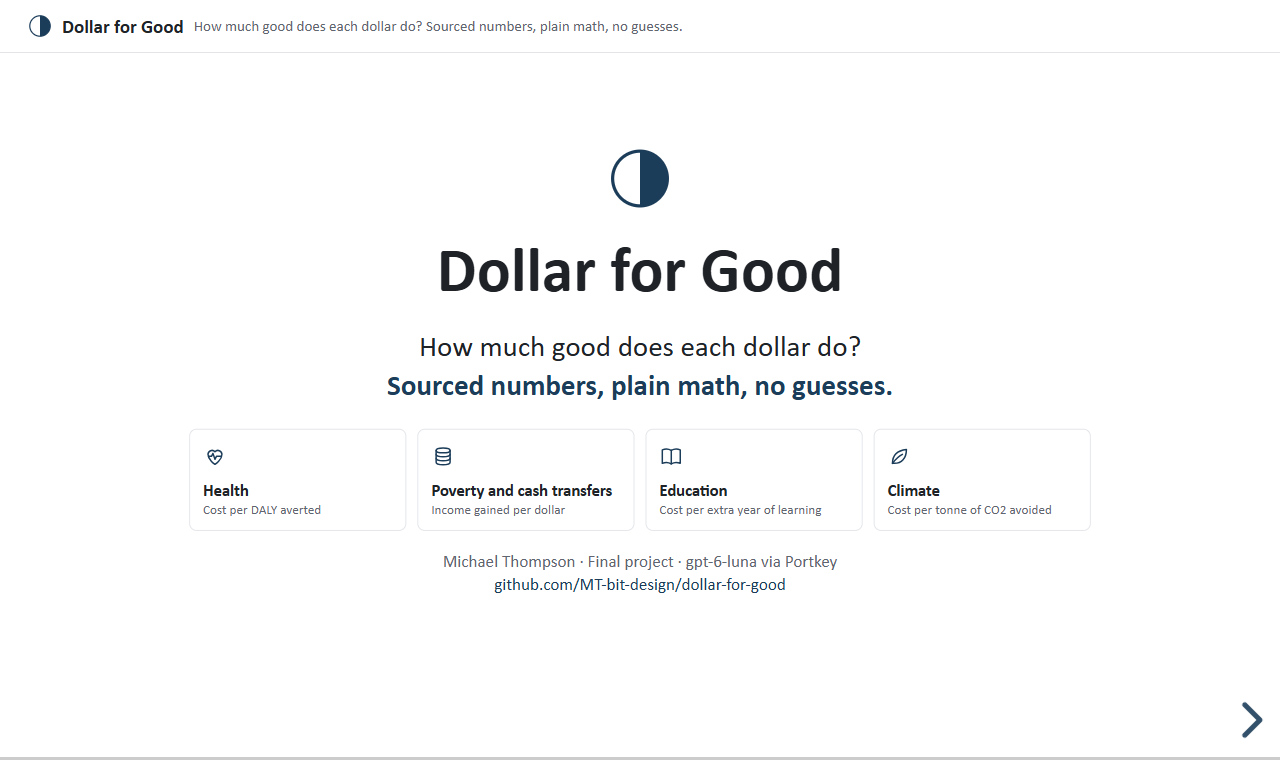
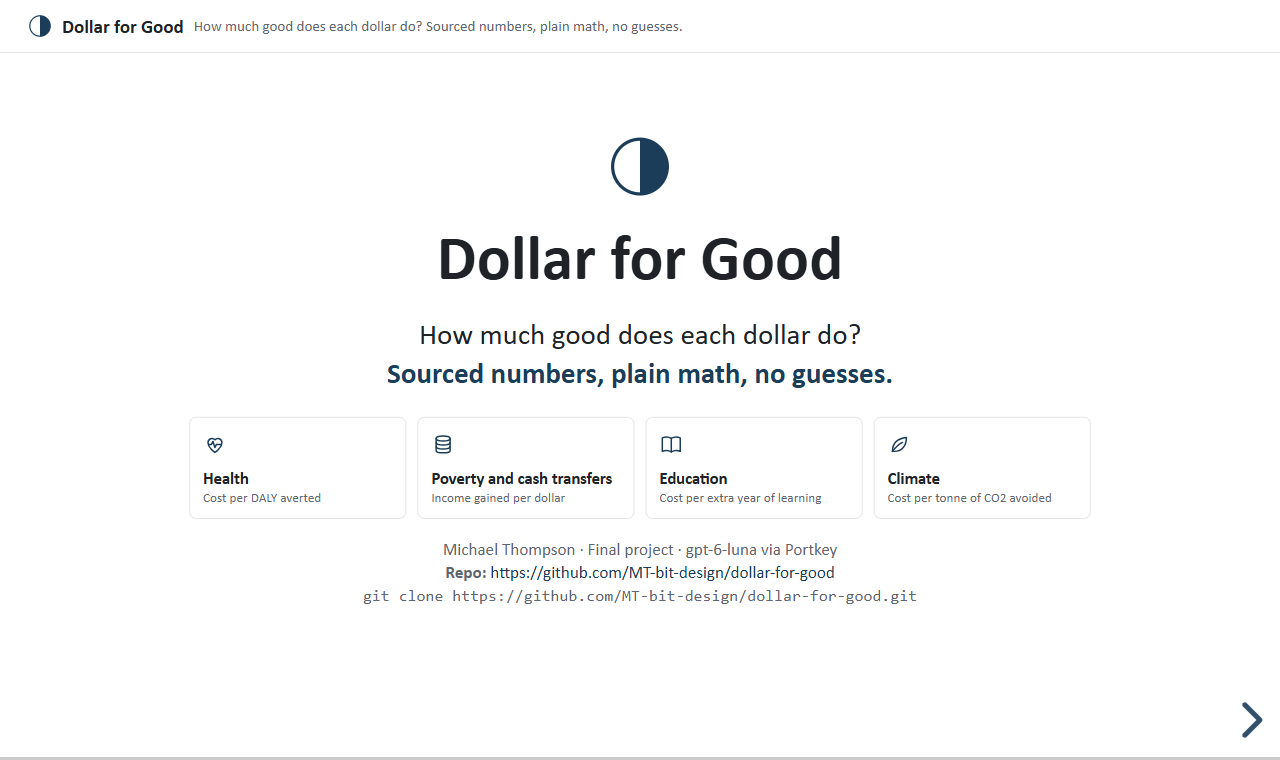
Show the repo URL and a git clone line in the report and on the first and last slides
Canvas takes files only, so graders find the repo from report.html and slides.html.

diff --git a/docs/slides_src.html b/docs/slides_src.html
@@ -65,7 +65,7 @@
   <h1>Dollar for Good</h1>
   <p style="font-size:1.05em">How much good does each dollar do?<br><b class="brand">Sourced numbers, plain math, no guesses.</b></p>
   <div class="causes"><div><svg viewBox="0 0 24 24" fill="none" stroke="currentColor" stroke-width="1.5" stroke-linecap="round" stroke-linejoin="round"><path d="M12 20s-7-4.4-7-10a4 4 0 0 1 7-2.6A4 4 0 0 1 19 10c0 5.6-7 10-7 10z"/><path d="M5.5 12h3l1.5-3 2 6 1.5-3h5"/></svg><b>Health</b><span>Cost per DALY averted</span></div><div><svg viewBox="0 0 24 24" fill="none" stroke="currentColor" stroke-width="1.5" stroke-linecap="round" stroke-linejoin="round"><ellipse cx="12" cy="6" rx="7" ry="2.5"/><path d="M5 6v4c0 1.4 3.1 2.5 7 2.5s7-1.1 7-2.5V6"/><path d="M5 10v4c0 1.4 3.1 2.5 7 2.5s7-1.1 7-2.5v-4"/><path d="M5 14v4c0 1.4 3.1 2.5 7 2.5s7-1.1 7-2.5v-4"/></svg><b>Poverty and cash transfers</b><span>Income gained per dollar</span></div><div><svg viewBox="0 0 24 24" fill="none" stroke="currentColor" stroke-width="1.5" stroke-linecap="round" stroke-linejoin="round"><path d="M3 5.5c3-1.3 6-1.3 9 .5 3-1.8 6-1.8 9-.5V19c-3-1.3-6-1.3-9 .5-3-1.8-6-1.8-9-.5z"/><path d="M12 6v13.5"/></svg><b>Education</b><span>Cost per extra year of learning</span></div><div><svg viewBox="0 0 24 24" fill="none" stroke="currentColor" stroke-width="1.5" stroke-linecap="round" stroke-linejoin="round"><path d="M5 19c0-8 5-13 14-14 0 9-5 14-12 14z"/><path d="M5 19c3-4 6-7 10-9"/></svg><b>Climate</b><span>Cost per tonne of CO2 avoided</span></div></div>
-  <p class="muted small">Michael Thompson · Final project · gpt-6-luna via Portkey<br><a href="https://github.com/MT-bit-design/dollar-for-good">github.com/MT-bit-design/dollar-for-good</a></p>
+  <p class="muted small">Michael Thompson · Final project · gpt-6-luna via Portkey<br><b>Repo:</b> <a href="https://github.com/MT-bit-design/dollar-for-good">https://github.com/MT-bit-design/dollar-for-good</a><br><code style="font-size:.95em">git clone https://github.com/MT-bit-design/dollar-for-good.git</code></p>
 </section>
 
 <!-- 2 Problem -->
@@ -209,6 +209,7 @@
       </ul>
     </div>
   </div>
+  <p class="small" style="margin-top:22px;border-top:1px solid #e2e4e8;padding-top:10px"><b>Repo:</b> <a href="https://github.com/MT-bit-design/dollar-for-good">https://github.com/MT-bit-design/dollar-for-good</a> · clone with <code>git clone https://github.com/MT-bit-design/dollar-for-good.git</code> and follow the README.</p>
 </section>
 
 </div></div>

diff --git a/slides.html b/slides.html
@@ -65,7 +65,7 @@
   <h1>Dollar for Good</h1>
   <p style="font-size:1.05em">How much good does each dollar do?<br><b class="brand">Sourced numbers, plain math, no guesses.</b></p>
   <div class="causes"><div><svg viewBox="0 0 24 24" fill="none" stroke="currentColor" stroke-width="1.5" stroke-linecap="round" stroke-linejoin="round"><path d="M12 20s-7-4.4-7-10a4 4 0 0 1 7-2.6A4 4 0 0 1 19 10c0 5.6-7 10-7 10z"/><path d="M5.5 12h3l1.5-3 2 6 1.5-3h5"/></svg><b>Health</b><span>Cost per DALY averted</span></div><div><svg viewBox="0 0 24 24" fill="none" stroke="currentColor" stroke-width="1.5" stroke-linecap="round" stroke-linejoin="round"><ellipse cx="12" cy="6" rx="7" ry="2.5"/><path d="M5 6v4c0 1.4 3.1 2.5 7 2.5s7-1.1 7-2.5V6"/><path d="M5 10v4c0 1.4 3.1 2.5 7 2.5s7-1.1 7-2.5v-4"/><path d="M5 14v4c0 1.4 3.1 2.5 7 2.5s7-1.1 7-2.5v-4"/></svg><b>Poverty and cash transfers</b><span>Income gained per dollar</span></div><div><svg viewBox="0 0 24 24" fill="none" stroke="currentColor" stroke-width="1.5" stroke-linecap="round" stroke-linejoin="round"><path d="M3 5.5c3-1.3 6-1.3 9 .5 3-1.8 6-1.8 9-.5V19c-3-1.3-6-1.3-9 .5-3-1.8-6-1.8-9-.5z"/><path d="M12 6v13.5"/></svg><b>Education</b><span>Cost per extra year of learning</span></div><div><svg viewBox="0 0 24 24" fill="none" stroke="currentColor" stroke-width="1.5" stroke-linecap="round" stroke-linejoin="round"><path d="M5 19c0-8 5-13 14-14 0 9-5 14-12 14z"/><path d="M5 19c3-4 6-7 10-9"/></svg><b>Climate</b><span>Cost per tonne of CO2 avoided</span></div></div>
-  <p class="muted small">Michael Thompson · Final project · gpt-6-luna via Portkey<br><a href="https://github.com/MT-bit-design/dollar-for-good">github.com/MT-bit-design/dollar-for-good</a></p>
+  <p class="muted small">Michael Thompson · Final project · gpt-6-luna via Portkey<br><b>Repo:</b> <a href="https://github.com/MT-bit-design/dollar-for-good">https://github.com/MT-bit-design/dollar-for-good</a><br><code style="font-size:.95em">git clone https://github.com/MT-bit-design/dollar-for-good.git</code></p>
 </section>
 
 <!-- 2 Problem -->
@@ -260,6 +260,7 @@
       </ul>
     </div>
   </div>
+  <p class="small" style="margin-top:22px;border-top:1px solid #e2e4e8;padding-top:10px"><b>Repo:</b> <a href="https://github.com/MT-bit-design/dollar-for-good">https://github.com/MT-bit-design/dollar-for-good</a> · clone with <code>git clone https://github.com/MT-bit-design/dollar-for-good.git</code> and follow the README.</p>
 </section>
 
 </div></div>

diff --git a/docs/report_src.html b/docs/report_src.html
@@ -68,7 +68,8 @@
 <p class="sub">A charity impact tool with sourced numbers, plain math and no guesses · Final project · Michael Thompson</p>
 <div class="links">
   <div><b>GitHub repo:</b> <a href="https://github.com/MT-bit-design/dollar-for-good">https://github.com/MT-bit-design/dollar-for-good</a></div>
-  <div><b>App:</b> runs locally from a fresh clone in about 5 minutes (see the README). It is not hosted online.</div>
+  <div><b>Clone:</b> <code>git clone https://github.com/MT-bit-design/dollar-for-good.git</code></div>
+  <div><b>App:</b> runs locally from a fresh clone in about 5 minutes; the README in the repo gives the steps. It is not hosted online.</div>
   <div><b>Model:</b> <code>gpt-6-luna</code> via Portkey (course key)</div>
 </div>
 <p class="pitch">A donor picks a cause and sees charities ranked by how much good each dollar does, in that cause's own unit. A funder uploads the charities they fund and sees where each one sits against a sourced benchmark.</p>

diff --git a/report.html b/report.html
@@ -68,7 +68,8 @@
 <p class="sub">A charity impact tool with sourced numbers, plain math and no guesses · Final project · Michael Thompson</p>
 <div class="links">
   <div><b>GitHub repo:</b> <a href="https://github.com/MT-bit-design/dollar-for-good">https://github.com/MT-bit-design/dollar-for-good</a></div>
-  <div><b>App:</b> runs locally from a fresh clone in about 5 minutes (see the README). It is not hosted online.</div>
+  <div><b>Clone:</b> <code>git clone https://github.com/MT-bit-design/dollar-for-good.git</code></div>
+  <div><b>App:</b> runs locally from a fresh clone in about 5 minutes; the README in the repo gives the steps. It is not hosted online.</div>
   <div><b>Model:</b> <code>gpt-6-luna</code> via Portkey (course key)</div>
 </div>
 <p class="pitch">A donor picks a cause and sees charities ranked by how much good each dollar does, in that cause's own unit. A funder uploads the charities they fund and sees where each one sits against a sourced benchmark.</p>
